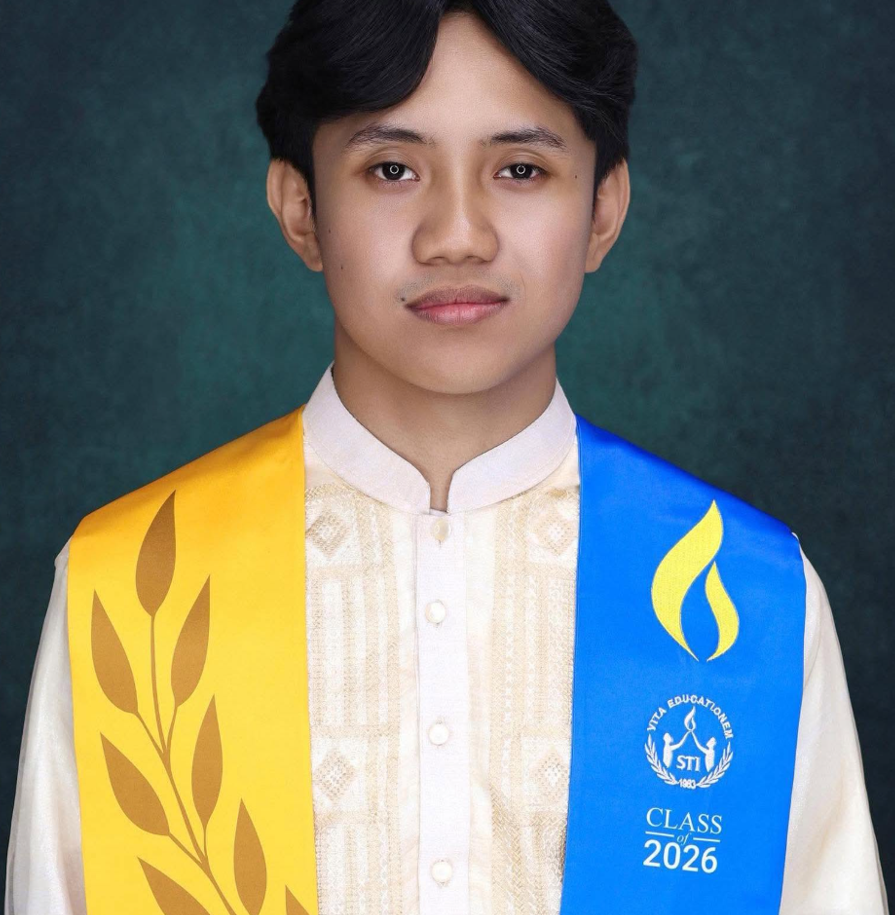
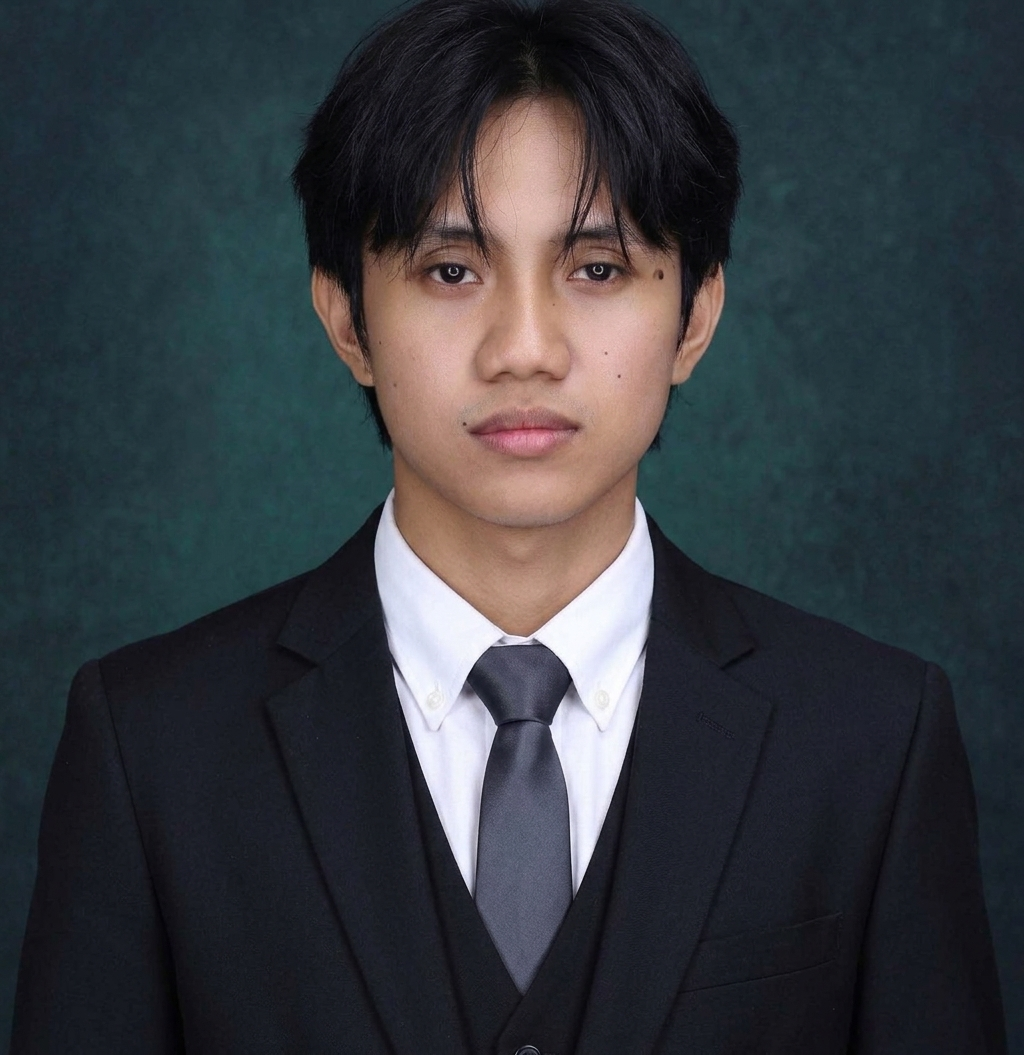
Remove MOTIV8, update about photo, animate preloader as a pipeline
- Projects: drop the MOTIV8 case study, leaving the three automation
  builds plus Notely
- public/aboutme.png: swap in the updated photo
- Preloader: replace the sweep bar with a sequential node-and-line
  pipeline animation, matching the automation motif used elsewhere

diff --git a/components/Preloader.js b/components/Preloader.js
@@ -5,6 +5,9 @@ import { useEffect, useState } from "react";
 const MIN_DISPLAY_MS = 900;
 const MAX_DISPLAY_MS = 2500;
 const FADE_MS = 500;
+const PIPELINE_CYCLE_S = 1.4;
+const NODE_COUNT = 4;
+const STEP_DELAY_S = PIPELINE_CYCLE_S / (NODE_COUNT + 1);
 
 export default function Preloader() {
   const [visible, setVisible] = useState(true);
@@ -40,8 +43,21 @@ export default function Preloader() {
       <p aria-hidden="true" className="font-display text-2xl font-semibold tracking-tight text-ink">
         Edu<span className="animate-pulse">_</span>
       </p>
-      <div aria-hidden="true" className="mt-6 h-0.75 w-24 overflow-hidden rounded-full bg-line">
-        <div className="h-full w-1/3 rounded-full bg-ink animate-[preloader-sweep_1.1s_ease-in-out_infinite]" />
+      <div aria-hidden="true" className="mt-7 flex items-center">
+        {Array.from({ length: NODE_COUNT }).map((_, i) => (
+          <span key={i} className="flex items-center">
+            <span
+              className="h-2 w-2 rounded-full bg-line animate-[preloader-node_1.4s_ease-in-out_infinite]"
+              style={{ animationDelay: `${i * STEP_DELAY_S}s` }}
+            />
+            {i < NODE_COUNT - 1 && (
+              <span
+                className="h-px w-6 bg-line animate-[preloader-line_1.4s_ease-in-out_infinite]"
+                style={{ animationDelay: `${(i + 0.5) * STEP_DELAY_S}s` }}
+              />
+            )}
+          </span>
+        ))}
       </div>
     </div>
   );

diff --git a/components/Projects.js b/components/Projects.js
@@ -41,18 +41,6 @@ const PROJECTS = [
     image: "/projects/followup-automation.png",
   },
   {
-    title: "MOTIV8",
-    problem: "Case study in progress — full write-up coming soon.",
-    bullets: [
-      "A React Native habit tracker, built with Expo",
-      "Problem statement and results to follow",
-    ],
-    tools: ["React Native", "Expo"],
-    image: "/projects/motiv8.png",
-    mobile: true,
-    imageAspect: "aspect-[484/740]",
-  },
-  {
     title: "Turning a Video or PDF Into Study-Ready Notes",
     problem:
       "Long lecture videos and dense PDFs take real time to sit through before you get anything usable out of them.",

diff --git a/app/globals.css b/app/globals.css
@@ -83,12 +83,30 @@ body {
   outline-offset: 3px;
 }
 
-@keyframes preloader-sweep {
-  0% {
-    transform: translateX(-120%);
+@keyframes preloader-node {
+  0%, 100% {
+    background: var(--line);
+    transform: scale(1);
   }
-  100% {
-    transform: translateX(420%);
+  15% {
+    background: var(--ink);
+    transform: scale(1.4);
+  }
+  30% {
+    background: var(--line);
+    transform: scale(1);
+  }
+}
+
+@keyframes preloader-line {
+  0%, 100% {
+    background: var(--line);
+  }
+  15% {
+    background: var(--ink);
+  }
+  30% {
+    background: var(--line);
   }
 }
 
